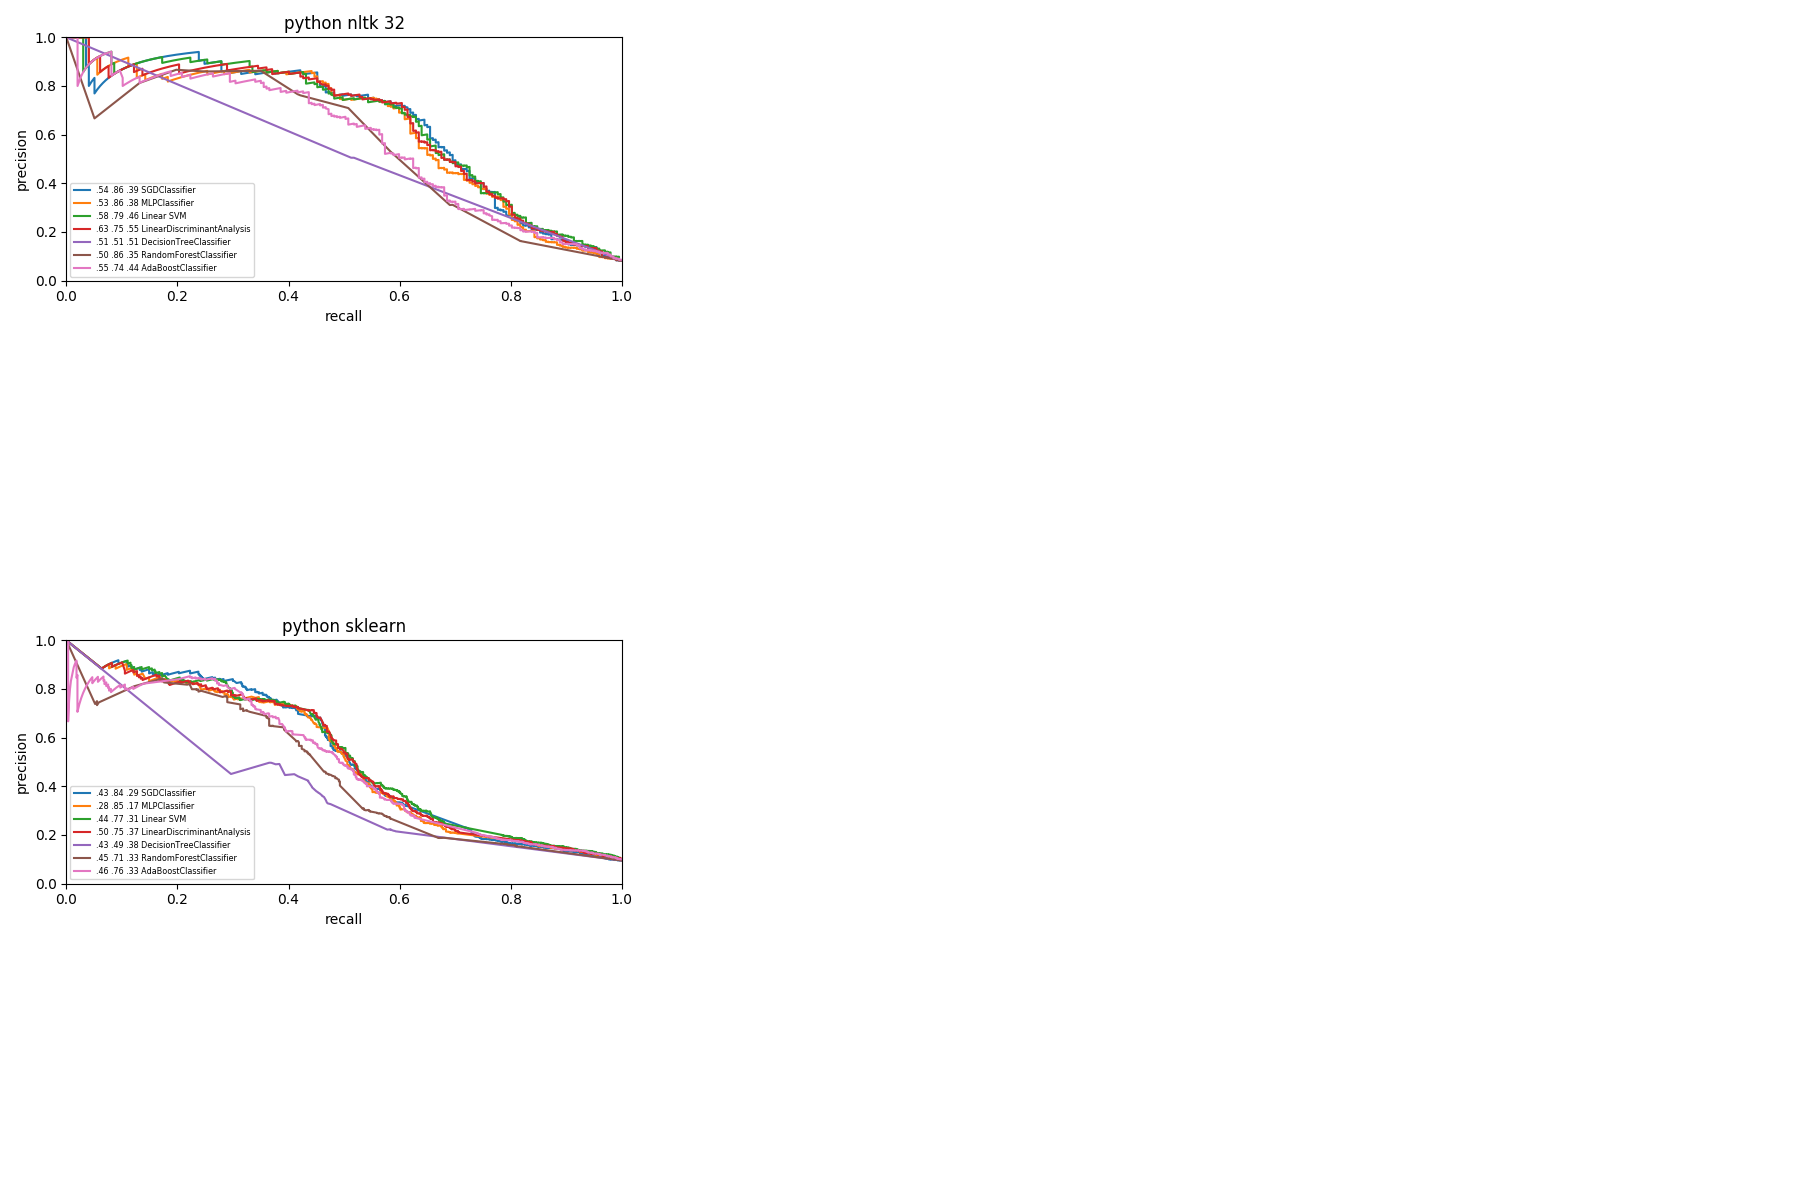
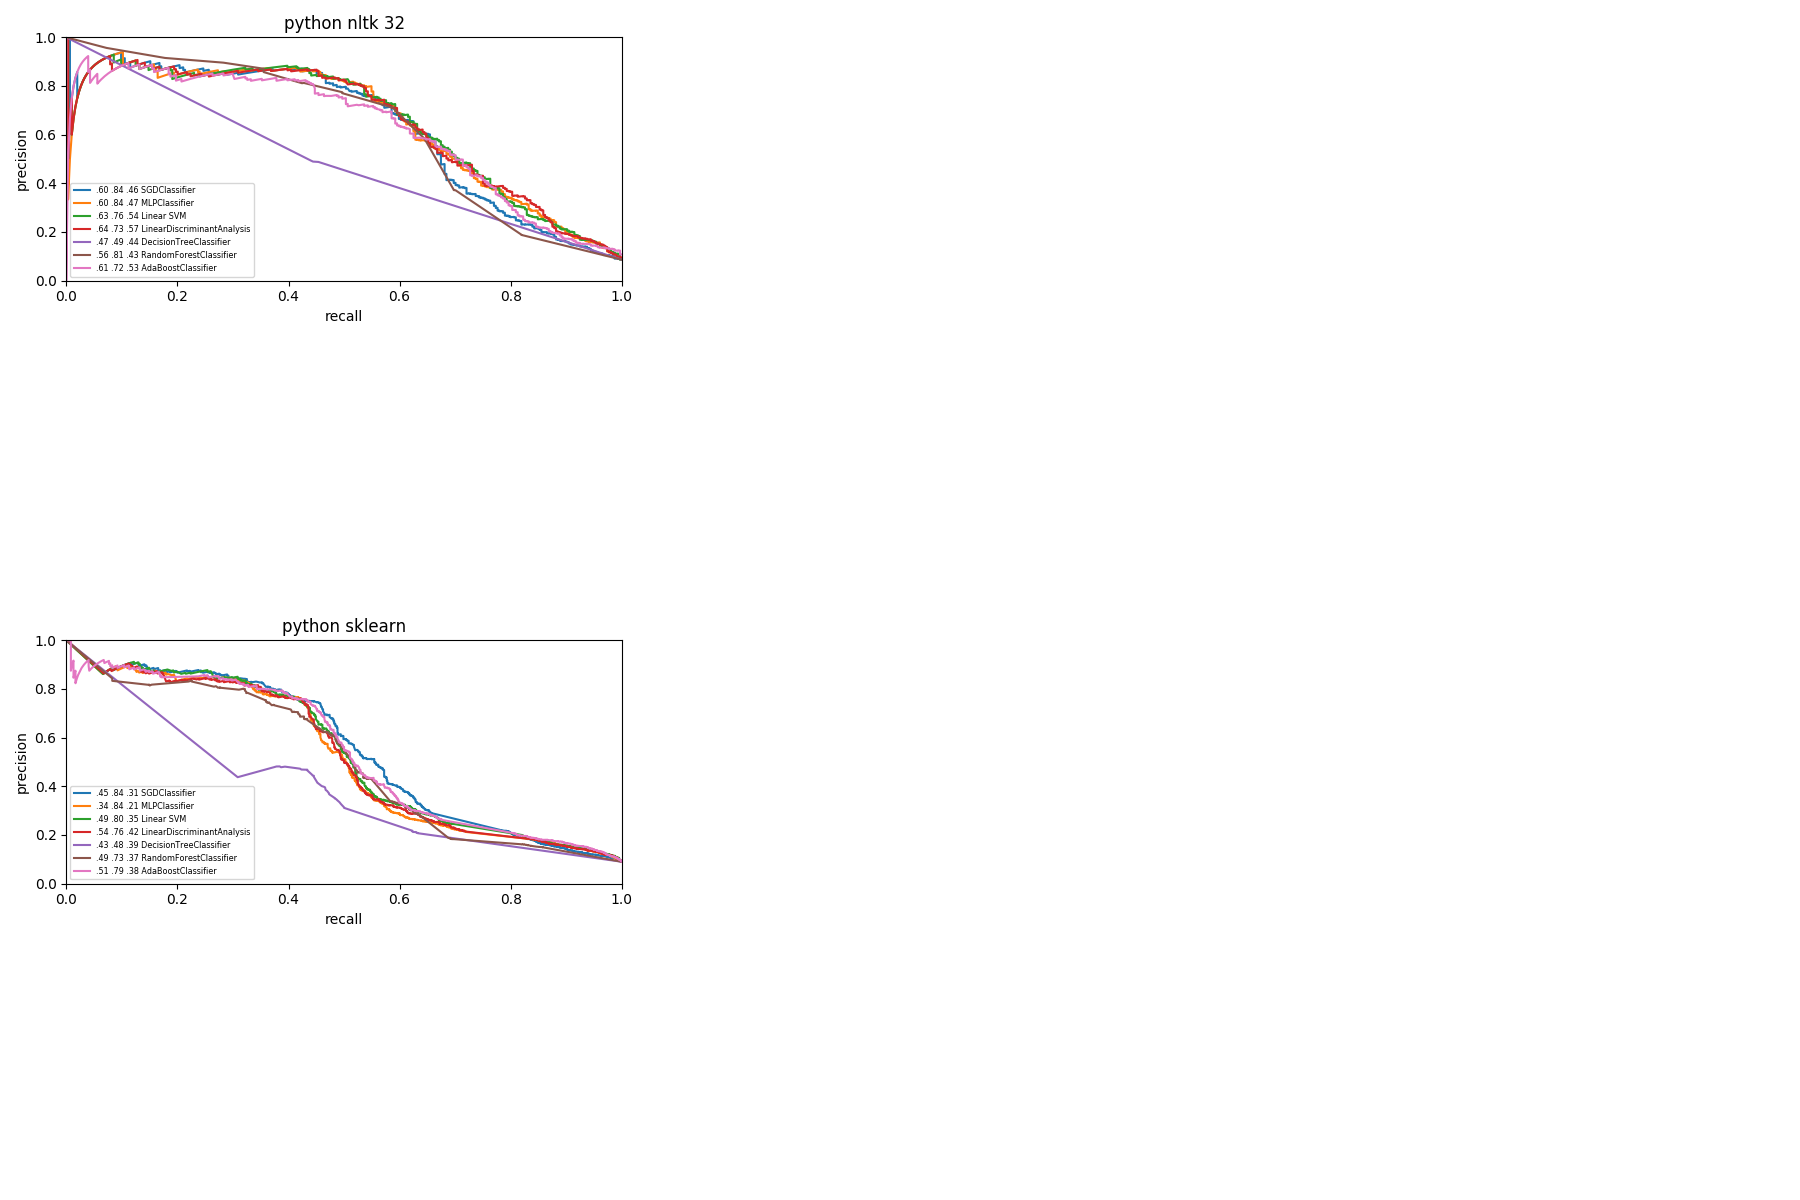
stopword bug, hierarchiy files

diff --git a/src/algo/hierarchy.py b/src/algo/hierarchy.py
@@ -12,94 +12,100 @@ from sklearn import decomposition
 
 wordtype = 'lemma'
 topfeature = ['title']
-tfidfcfg= [0, 0] # 11 wolkig aber gelb, 32 beste klassifikations aber nix gelb, 00 separiert gut sonst bullshit
+tfidfcfg= [3, 2] # 11 wolkig aber gelb, 32 beste klassifikations aber nix gelb, 00 separiert gut sonst bullshit
 corpus = StackoverflowCorpus('bag-of-words/stackoverflow-' + wordtype, topfeature, tfidfcfg[0], tfidfcfg[1])
 print("Corpus", len(corpus.documents), len(corpus.termssorted))
 
-interndim = 10
-algo = 'complete' # 'ward' 'single*' 'complete' 'average*''centroid ''median' 
-
-X_ = np.matrix(corpus.w.T)
-
-p = pipeline.Pipeline([
-    ('sca', preprocessing.MaxAbsScaler()),
-    #('clu', decomposition.PCA(n_components=interndim)),  
-    ('clu', decomposition.TruncatedSVD(n_components=interndim)),
-    ('norm', preprocessing.MaxAbsScaler()) 
-])
-X = p.fit_transform(X_)
-F = corpus.termssorted
-XL = corpus.doctermRaw.T
+#interndim = 100
+#algo = 'ward' # 'ward' 'single*' 'complete' 'average*''centroid ''median' 
 
 def top(component, feature_names, n_top_words):        
     #return " ".join([feature_names[i] for i in component.argsort()[:n_top_words]])
     return " ".join([feature_names[i] for i in component.argsort()[:-n_top_words - 1:-1]])    
 
-print("nltk reduced", X.shape)
+def createhierarchy(algo, preprocess, interndim):
+    X_ = np.matrix(corpus.w.T)
 
-Z = linkage(X, algo)
+    if preprocess == 'PCA':
+        prepro = decomposition.PCA(n_components=interndim) 
+    else:
+        prepro = decomposition.TruncatedSVD(n_components=interndim)
 
-max_d = 2
-n = len(Z)
-print("zlen", n, Z.shape)
-nodeMat = np.zeros((n+1, len(corpus.termssorted)))
-print("nodemat", nodeMat.shape)
-print("XL", XL.shape)
+    p = pipeline.Pipeline([
+        ('sca', preprocessing.MaxAbsScaler()),
+        ('clu', prepro),  
+        ('norm', preprocessing.MaxAbsScaler()) 
+    ])
+    X = p.fit_transform(X_)
+    F = corpus.termssorted
+    XL = corpus.doctermRaw.T
+    Z = linkage(X, algo)
+    n = len(Z)
+    print("nltk reduced", X.shape)
 
-allterms = sum(XL)
-print("all terms shape", allterms.shape)
-print("all terms sum:", top(allterms, F, 10))
-def visit(node):    
-    if not node.is_leaf():        
-        id = node.get_id()
-        assert(id > n)
-        lid = node.get_left().get_id()
-        rid = node.get_right().get_id()
-        assert(lid >= 0 and rid >= 0)
-        left  = XL[lid] if lid < n else nodeMat[lid-n]
-        right = XL[rid] if rid < n else nodeMat[rid-n]        
-        #nodeMat[id-n-1] = np.add(left, right)
-        nodeMat[id-n] = left + right
+    nodeMat = np.zeros((n+1, len(corpus.termssorted)))
+    print("nodemat", nodeMat.shape)
+    print("XL", XL.shape)
+    print("zlen", n, Z.shape)
+    
+    allterms = sum(XL)
+    print("all terms shape", allterms.shape)
+    print("all terms sum:", top(allterms, F, 10))
+    def visit(node):    
+        if not node.is_leaf():        
+            id = node.get_id()
+            assert(id > n)
+            lid = node.get_left().get_id()
+            rid = node.get_right().get_id()
+            assert(lid >= 0 and rid >= 0)
+            left  = XL[lid] if lid < n else nodeMat[lid-n]
+            right = XL[rid] if rid < n else nodeMat[rid-n]        
+            #nodeMat[id-n-1] = np.add(left, right)
+            nodeMat[id-n] = left + right
 
-def postorder(node, visit):
-    if not node.is_leaf():        
-        postorder(node.get_right(), visit)	
-        postorder(node.get_left(), visit) 
-    visit(node)
+    def postorder(node, visit):
+        if not node.is_leaf():        
+            postorder(node.get_right(), visit)	
+            postorder(node.get_left(), visit) 
+        visit(node)
 
-tree = to_tree(Z)
-postorder(tree, visit)
-rootid = tree.get_id()-n
-print("rootid", rootid)
-print("rootid", top(nodeMat[rootid], F, 10))
+    tree = to_tree(Z)
+    postorder(tree, visit)
+    rootid = tree.get_id()-n
+    print("rootid", rootid)
+    print("rootid", top(nodeMat[rootid], F, 10))
 
-nodemap = {} # kack index
-nodemap[0] = { 'name':'dummy' }
-def visitjson(node):    
-    if node.is_leaf():    
-        id = node.get_id()      
-        nodemap[id] = {
-            "name": top(XL[id], F, 3),
-            "numLeafs": node.get_count()
-        }
-    else:        
-        id = node.get_id()
-        assert(id > n)
-        lid = node.get_left().get_id()
-        rid = node.get_right().get_id()
-        left  = nodemap[lid] if lid < n else nodemap[lid-n]        
-        right = nodemap[rid] if rid < n else nodemap[rid-n]        
-        nodemap[id-n] = {
-            "name": top(nodeMat[id-n], F, 3),
-            "numLeafs": node.get_count(),
-            "children": [ left, right ]
-        }
+    nodemap = {} # kack index
+    nodemap[0] = { 'name':'dummy' }
+    def visitjson(node):    
+        if node.is_leaf():    
+            id = node.get_id()      
+            nodemap[id] = {
+                "name": top(XL[id], F, 3),
+                "numLeafs": node.get_count()
+            }
+        else:        
+            id = node.get_id()
+            assert(id > n)
+            lid = node.get_left().get_id()
+            rid = node.get_right().get_id()
+            left  = nodemap[lid] if lid < n else nodemap[lid-n]        
+            right = nodemap[rid] if rid < n else nodemap[rid-n]        
+            nodemap[id-n] = {
+                "name": top(nodeMat[id-n], F, 3),
+                "numLeafs": node.get_count(),
+                "children": [ left, right ]
+            }
 
-postorder(tree, visitjson)
-jsf = nodemap[rootid]
-path = '../../proj10/hypertree-of-life/dist/hierarchies/Kddm/'
-with open("{}SVD{}-{}.json".format(path, interndim, algo), 'w') as outfile:
-    json.dump(jsf, outfile, indent=4)
+    postorder(tree, visitjson)
+    jsf = nodemap[rootid]
+    path = '../../proj10/hypertree-of-life/dist/hierarchies/Open-Tree-of-Life/'
+    with open("{}{}{}-{}.d3.json".format(path, preprocess, interndim, algo), 'w') as outfile:
+        json.dump(jsf, outfile, indent=4)
+
+createhierarchy('ward', 'SVD', 10)
+createhierarchy('ward', 'PCA', 10)
+createhierarchy('ward', 'PCA', 100)
 
 """
 def llf(id):

diff --git a/src/model/bag-of-words/wordfilter.py b/src/model/bag-of-words/wordfilter.py
@@ -3,6 +3,7 @@ from nltk.corpus import stopwords
 minwordlen = 3
 nltk_stop_words = list(stopwords.words('english')) 
 
+#anything part thing everything answer lot error step reason nothing idea side position result
 
 raw_stop_words = """
     user make run app application page new server page set method find add files image used line created 
@@ -30,11 +31,16 @@ stem_stop_words.extend(raw_stop_words)
 lem_stop_words = """    
     give unable add fail character return 
     """.split()
-stem_stop_words.extend(raw_stop_words)
+lem_stop_words.extend(raw_stop_words)
 
-whitelist = """
+whitelist = frozenset("""
     c c++ c# r 
-    """.split()
+    """.split())
+
+whitelist = frozenset(whitelist)
+raw_stop_words = frozenset(raw_stop_words)
+lem_stop_words = frozenset(lem_stop_words)
+stem_stop_words = frozenset(stem_stop_words)
 
 def filterintern(word, stopwordlist):
     lword = word.lower()

diff --git a/src/algo/main.py b/src/algo/main.py
@@ -10,7 +10,6 @@ from numpy.random import RandomState
 
 from sklearn import feature_selection
 
-
 from classify.pipelines import classify_pre_pipeline
 from classify.pipelines import classify_pipelines
 from cluster.pipelines import clustervis_pipelines, cluster_pipelines
@@ -125,7 +124,7 @@ def analyseOneTag(tag, idx):
 
 f1 = plt.figure(figsize=figuresize)
 plt.tight_layout()
-for idx, tag in enumerate(['python']): #,, , 'php', 'html', 'android', 'c#', 'sql'
+for idx, tag in enumerate(['python', 'php', 'html', 'android', 'javascript', 'sql']): #,, , 
     analyseOneTag(tag, idx)
 
 plt.show()
